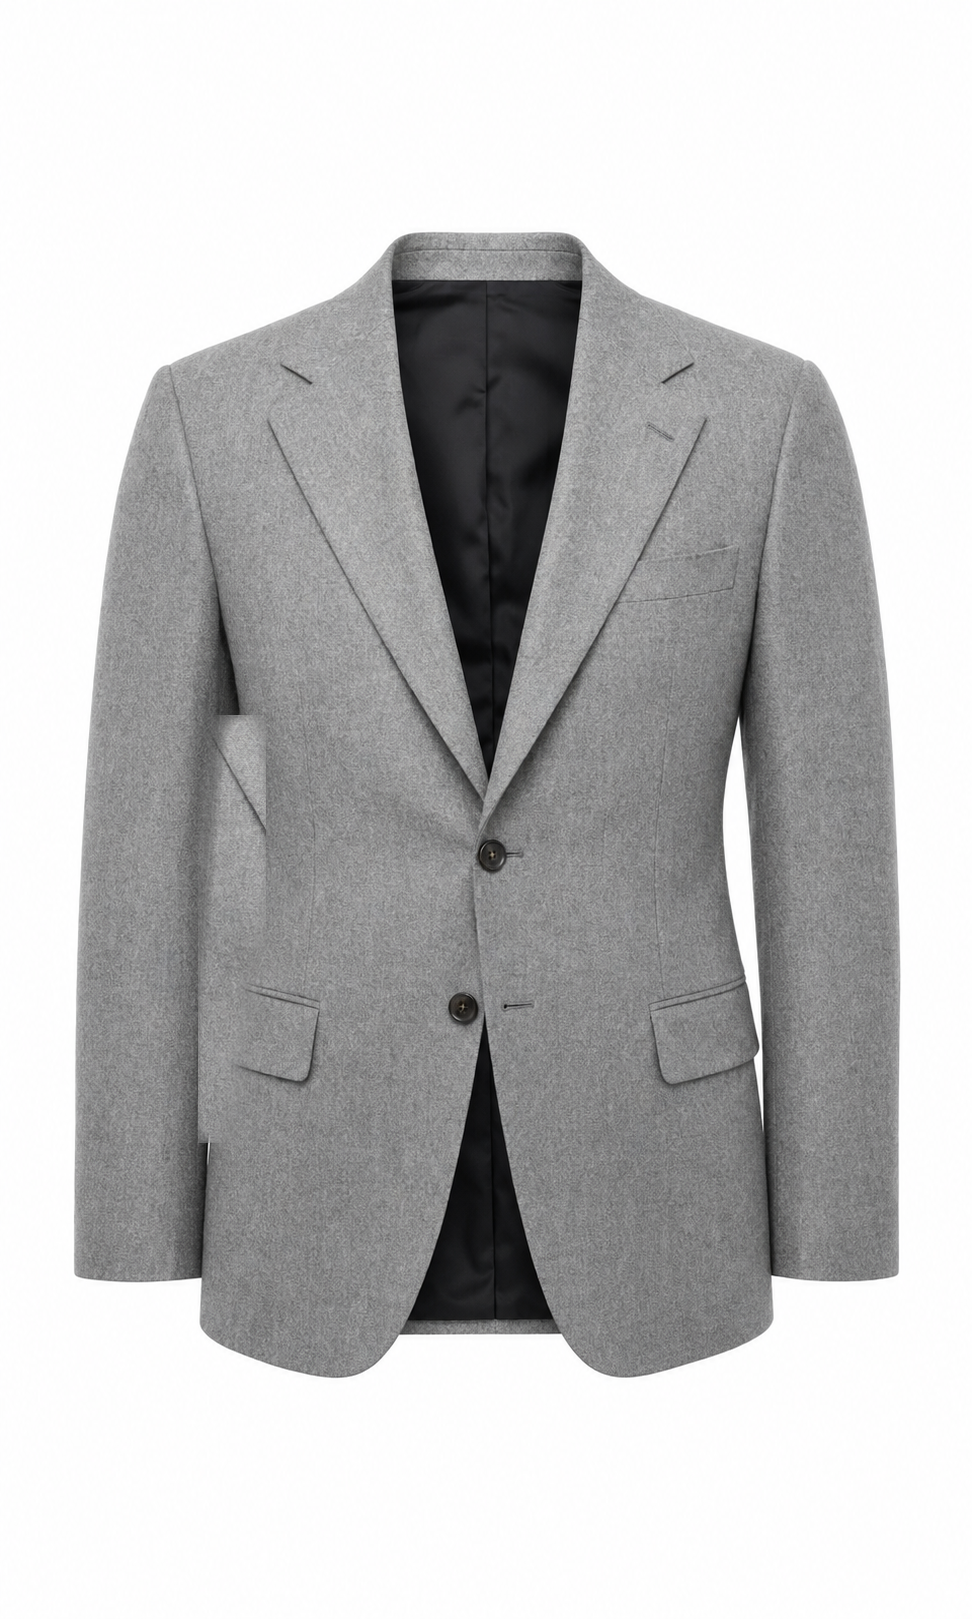
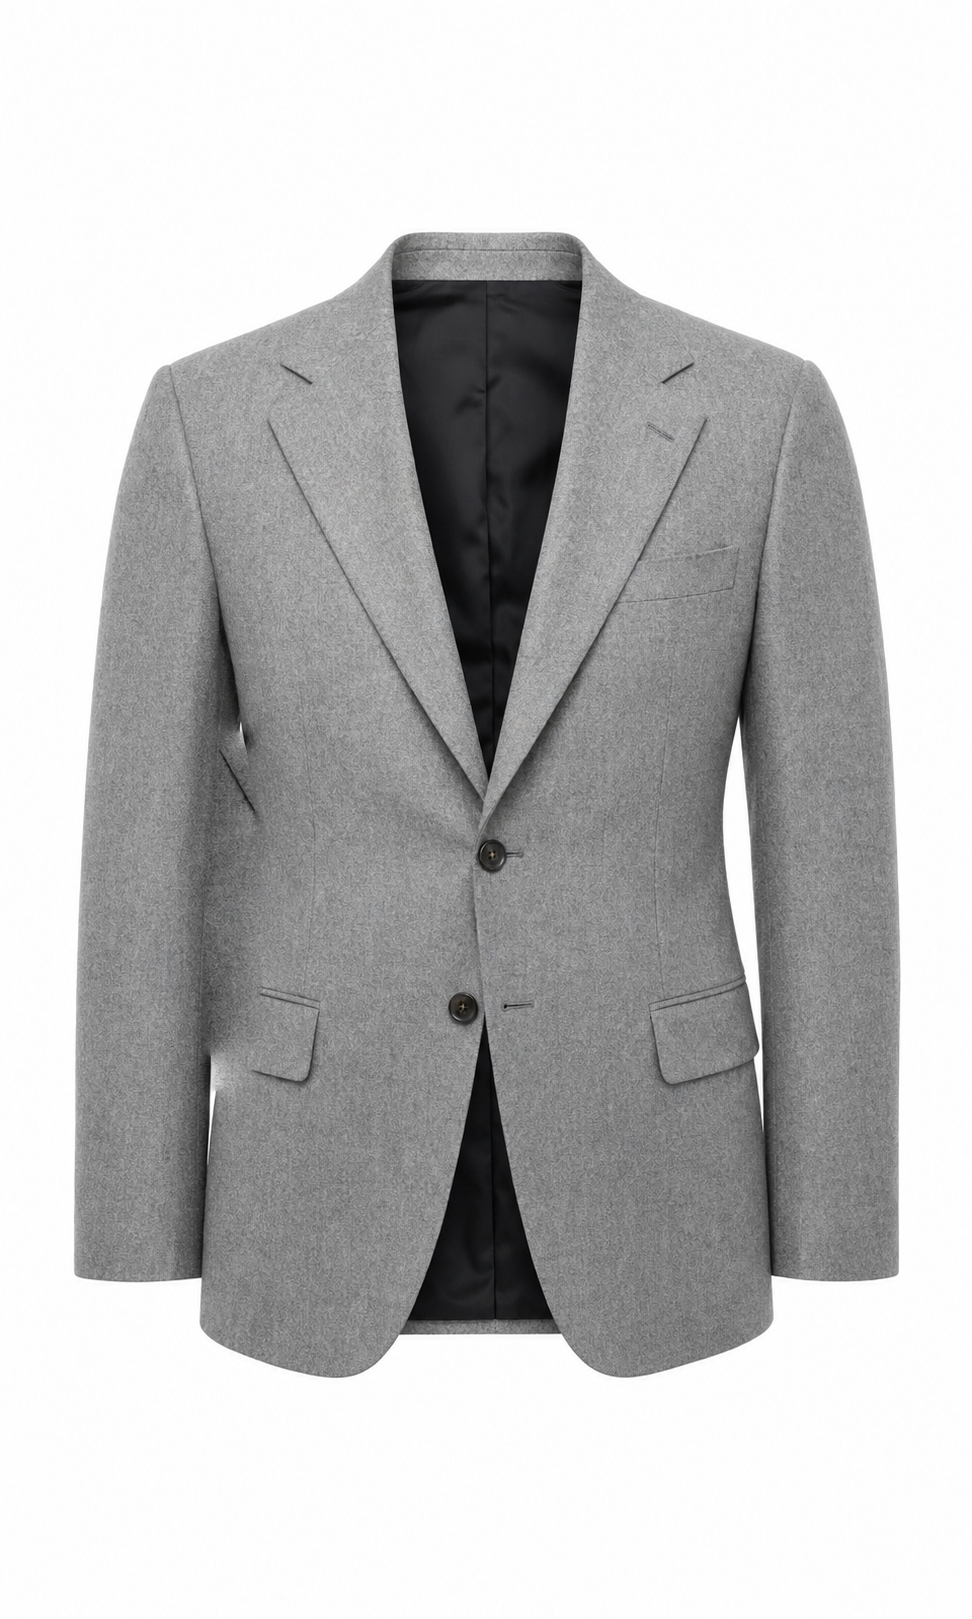
Fix the sleeve/torso seam properly with Poisson blending
The previous heal (mask growth + soft-feathered manual paste) still
shipped a faint but real visible tonal seam — rejected on sight against
the founder's screenshot comparison (jacket-sb-peak-patch's own
sleeve/body seam, a different source photo with no gap at all: nothing
visible there whatsoever).

Every attempt so far tried to match the transplanted patch's tone/grain
by eye (a gradient, a clone-shift, inpainting, manual feathering) and
each left some detectable trace. Switched to cv2.seamlessClone with
NORMAL_CLONE, which solves a Poisson equation for the patch's own
gradient to match its surroundings rather than matching pasted content
by eye — the actual right tool for "paste this so it's undetectable."

Same mask and donor patch as the previous attempt, just blended
properly. Committed the healing script itself
(tools/heal-jacket-sb-sleeve-gap.py) for reproducibility — confirmed it
regenerates the shipped file byte-for-byte from the untouched original
source. Re-verified with both test cloths at the same torso-crop scale
the rejection screenshots used: no visible gap, no shadow smudge, no
seam, stripes/grid fully continuous. Confirmed every other garment
asset stayed byte-identical on rebuild. Full smoke suite green. Bumped
CACHE_VERSION.

Changed region(s): [[0.1852, 0.4324, 0.2778, 0.7103]]

diff --git a/tools/build-garment-assets.js b/tools/build-garment-assets.js
@@ -583,29 +583,26 @@ if (require.main === module) {
         // never reach. A striped test cloth never showed it (a blown gap
         // just reads as "extra-bright stripes"); a windowpane check did,
         // as a jarring pattern-less pale band with no grid lines at all.
-        // Two earlier heal attempts both shipped and both got rejected on
-        // sight (founder: "still looks like shit"). First, a hand-rolled
-        // per-row fix: a plain colour gradient had zero grain and combed
-        // scanline banding; a straight clone-shift fixed the grain but
-        // produced an obvious rectangular "sticker" with mismatched grain
-        // direction. Second, OpenCV inpainting (cv2.inpaint, Telea)
-        // restricted to just the hard-saturated 253-255 core, plus a grain
-        // texture tiled on top — closed the white gap cleanly, but left
-        // the natural dark fold-shadow immediately surrounding it in
-        // place, and Telea's own smoothing blurred/interrupted a striped
-        // test cloth's lines rather than letting them run straight through
-        // (compare against jacket-sb-peak-patch's own sleeve/body seam,
-        // the founder's reference for "nothing visible there at all" — no
-        // gap, no shadow, no interruption). Landed on: grow the mask past
-        // the blown core to also cover the darkened valley leading into it
-        // (measured: column mean drops from ~154 to ~99 over 250px before
-        // the blowout — a real fold, not photo noise), then a SOFT-
-        // FEATHERED paste (Gaussian-blurred alpha, not a hard cut) of a
-        // same-size clean patch of real, unshaded sleeve fabric — real
-        // photographed grain the whole way, no inpainting blur, no
-        // synthesized gradient, so a stripe or check pattern multiplied
-        // over it runs straight through uninterrupted, same as the
-        // reference. File: jacket-sb-notch-sleeve-gap-healed.png (original
+        // Three earlier heal attempts all shipped and all got rejected on
+        // sight (founder: "still looks like shit" / "what the fuck is
+        // this"). A hand-rolled per-row colour gradient had zero grain and
+        // combed scanline banding; a straight clone-shift fixed the grain
+        // but produced an obvious rectangular "sticker"; OpenCV inpainting
+        // (cv2.inpaint, Telea) plus a tiled grain texture closed the white
+        // gap but left the natural dark fold-shadow around it in place and
+        // blurred/interrupted a striped test cloth rather than letting it
+        // run straight through; even a soft-feathered manual paste of real
+        // donor fabric (matching tone and grain by eye) still left a faint
+        // but visible tonal seam under close inspection. Founder's bar,
+        // set by a screenshot of jacket-sb-peak-patch's own sleeve/body
+        // seam (a different source photo with no gap at all): nothing
+        // visible there whatsoever, not "a well-healed gap."
+        // Fixed with cv2.seamlessClone (NORMAL_CLONE) — Poisson blending,
+        // which solves for the transplanted patch's gradient to match its
+        // surroundings rather than just matching pasted content by eye.
+        // Regenerate via tools/heal-jacket-sb-sleeve-gap.py (run from repo
+        // root; see that file's header for the exact mask/donor geometry).
+        // File: jacket-sb-notch-sleeve-gap-healed.png (original source
         // kept on disk untouched, for provenance/comparison).
         "jacket-sb": "jacket-sb-notch-sleeve-gap-healed.png",
         "jacket-sb-peak-patch": "jacket-sb-peak-patch.png",

diff --git a/sw.js b/sw.js
@@ -6,7 +6,7 @@
 // IMPORTANT: bump CACHE_VERSION on every deploy that changes any
 // cached file (the ?v= params below must match index.html).
 
-var CACHE_VERSION = "bbs-v159";
+var CACHE_VERSION = "bbs-v160";
 
 var PRECACHE = [
     "./",

diff --git a/tools/heal-jacket-sb-sleeve-gap.py b/tools/heal-jacket-sb-sleeve-gap.py
@@ -1,0 +1,77 @@
+#!/usr/bin/env python3
+# Regenerates images/styleBuilder/jacket-sb-notch-sleeve-gap-healed.png
+# from the original, unmodified source photo. Not run automatically by
+# build-garment-assets.js — this is a one-off preprocessing step whose
+# OUTPUT is committed and consumed as a normal source file. Re-run only
+# if the original source photo changes.
+#
+# What this fixes: the raw jacket-sb source has a hard-edged, near-
+# white gap between the sleeve and torso (ghost-mannequin volume
+# standing the sleeve away from the body more than a worn garment
+# would, letting the white studio backdrop show through). It survives
+# mask extraction as opaque "garment" because it's an enclosed island
+# the frame-edge flood fill in extractMask can never reach.
+#
+# Three earlier attempts were tried and rejected (see the commit
+# history / docs/2026-08-23-style-room-image-prompts.md item #1 for the
+# full account) before landing on this: cv2.seamlessClone with
+# NORMAL_CLONE, which solves a Poisson blend so the transplanted patch
+# matches the surrounding gradient — real photographed fabric grain,
+# not inpainting-blurred or hand-feathered, so a stripe or check
+# pattern multiplied over it at render time runs straight through with
+# no visible seam. Founder's bar for "correct": a screenshot of
+# jacket-sb-peak-patch's own sleeve/body seam (a different source photo
+# with no gap at all) — nothing visible there whatsoever.
+#
+# Requires: pip install opencv-python-headless pillow numpy
+#
+# Usage: python3 tools/heal-jacket-sb-sleeve-gap.py
+
+import cv2
+import numpy as np
+from PIL import Image
+
+SRC = "images/styleBuilder/replicate-prediction-mapxkr394drmr0d05wa9n2cnbw.png"
+OUT = "images/styleBuilder/jacket-sb-notch-sleeve-gap-healed.png"
+
+im = Image.open(SRC).convert("RGB")
+arr = np.array(im)
+h, w = arr.shape[:2]
+lum = 0.299 * arr[:, :, 0].astype(float) + 0.587 * arr[:, :, 1].astype(float) + 0.114 * arr[:, :, 2].astype(float)
+
+# Restricted to where the gap actually lives (measured directly off the
+# raw source) so this can never sweep in a real highlight elsewhere on
+# the garment -- a real highlight has a soft gradient falloff; this gap
+# is pegged 253-255 with a hard, silhouette-like boundary.
+search = np.zeros((h, w), dtype=np.uint8)
+search[650:1200, 150:320] = 1
+core = ((lum > 235) & (search.astype(bool))).astype(np.uint8) * 255
+n, labels = cv2.connectedComponents(core)
+sizes = [(labels == i).sum() for i in range(1, n)]
+best = int(np.argmax(sizes)) + 1 if sizes else 0
+blob = (labels == best).astype(np.uint8) * 255
+# Grown past the hard-saturated core to also cover the natural darkened
+# fold-shadow leading into it (column mean drops ~154 to ~99 over
+# ~250px before the blowout -- a real fold, not photo noise), so the
+# donor patch below replaces the whole anomaly, not just its brightest
+# pixels.
+mask = cv2.dilate(blob, np.ones((25, 25), np.uint8), iterations=1)
+
+ys, xs = np.where(mask > 0)
+y0, y1, x0, x1 = ys.min(), ys.max() + 1, xs.min(), xs.max() + 1
+bh, bw = y1 - y0, x1 - x0
+center = (x0 + bw // 2, y0 + bh // 2)
+
+bgr = cv2.cvtColor(arr, cv2.COLOR_RGB2BGR)
+
+# Donor: a same-size patch of real, clean, unshaded sleeve fabric --
+# well clear of the defect, the garment's own silhouette edge, and the
+# pocket flap.
+donor_x0, donor_y0 = 335, 560
+donor = bgr[donor_y0:donor_y0 + bh, donor_x0:donor_x0 + bw].copy()
+donor_mask = np.zeros((bh, bw), dtype=np.uint8)
+cv2.ellipse(donor_mask, (bw // 2, bh // 2), (bw // 2 - 3, bh // 2 - 3), 0, 0, 360, 255, -1)
+
+result = cv2.seamlessClone(donor, bgr, donor_mask, center, cv2.NORMAL_CLONE)
+Image.fromarray(cv2.cvtColor(result, cv2.COLOR_BGR2RGB)).save(OUT)
+print("wrote " + OUT)

diff --git a/docs/2026-08-23-style-room-image-prompts.md b/docs/2026-08-23-style-room-image-prompts.md
@@ -161,21 +161,29 @@ a screenshot of `jacket-sb-peak-patch`'s own sleeve/body seam — a
 completely uninterrupted, nothing visible there whatsoever. That's the
 bar: not "a healed gap," but "no gap ever existed."
 
-Landed on: grow the mask past the blown core to also cover the
+A fourth attempt grew the mask past the blown core to also cover the
 darkened valley leading into it (measured: column mean drops from ~154
 to ~99 over roughly 250px before the blowout — a real fold, not photo
 noise or an artifact of the mask), then a SOFT-FEATHERED paste
 (Gaussian-blurred alpha, not a hard-cut box) of a same-size clean patch
-of real, unshaded sleeve fabric — real photographed grain the whole
-way through, no inpainting blur, no synthesized gradient. A stripe or
-check pattern multiplied over it now runs straight through
-uninterrupted, matching the reference. Saved as
+of real, unshaded sleeve fabric. Shipped, and still rejected on sight
+("what the fuck is this?") — a faint but real tonal seam remained
+visible at normal viewing scale, plainly failing the reference bar.
+
+Fixed properly with `cv2.seamlessClone` (`NORMAL_CLONE`) — Poisson
+blending, which solves for the transplanted patch's own gradient to
+match its surroundings rather than matching pasted content by eye the
+way every hand-rolled attempt above did. Same mask and donor patch as
+the fourth attempt, just blended properly this time. Regenerable via
+`tools/heal-jacket-sb-sleeve-gap.py` (committed, run from repo root —
+reproduces the shipped file byte-for-byte, confirmed). Saved as
 `images/styleBuilder/jacket-sb-notch-sleeve-gap-healed.png` (original
-kept on disk, untouched, for provenance) and `tools/build-garment-
-assets.js`'s `SOURCES["jacket-sb"]` repointed to it — confirmed via
-rebuild that every other asset stayed byte-identical. Re-verified with
-both test cloths at full-body scale: no visible gap, no shadow smudge,
-no sticker seam, stripes/grid fully continuous.
+source kept on disk, untouched, for provenance) and `tools/build-
+garment-assets.js`'s `SOURCES["jacket-sb"]` repointed to it — confirmed
+via rebuild that every other asset stayed byte-identical. Re-verified
+with both test cloths at the same full-body/torso-crop scale the
+founder's rejection screenshots used: no visible gap, no shadow smudge,
+no seam, stripes/grid fully continuous.
 
 **Founder correction (23 Aug 2026): the shipped notch lapel reads too
 narrow. Widen it to at least 4" (≈10cm) at its widest point** — still a
